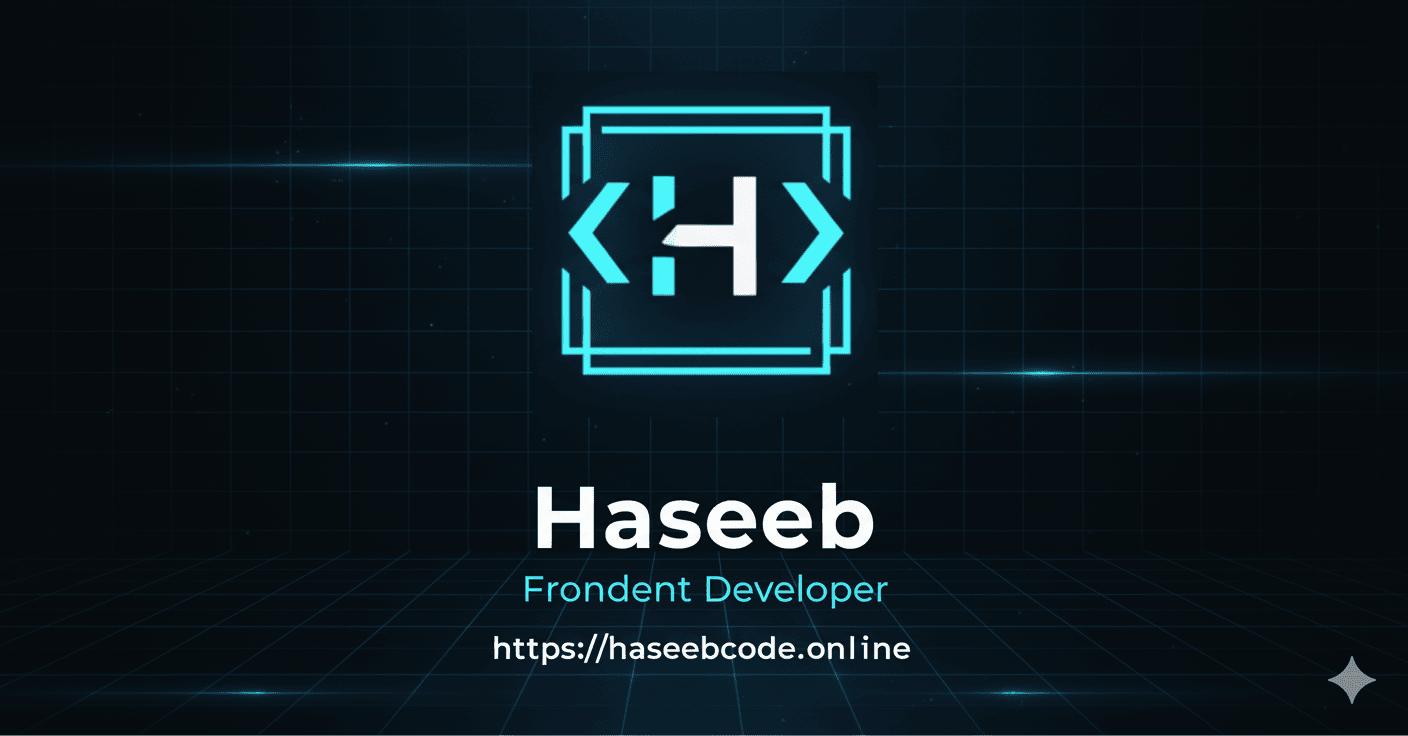
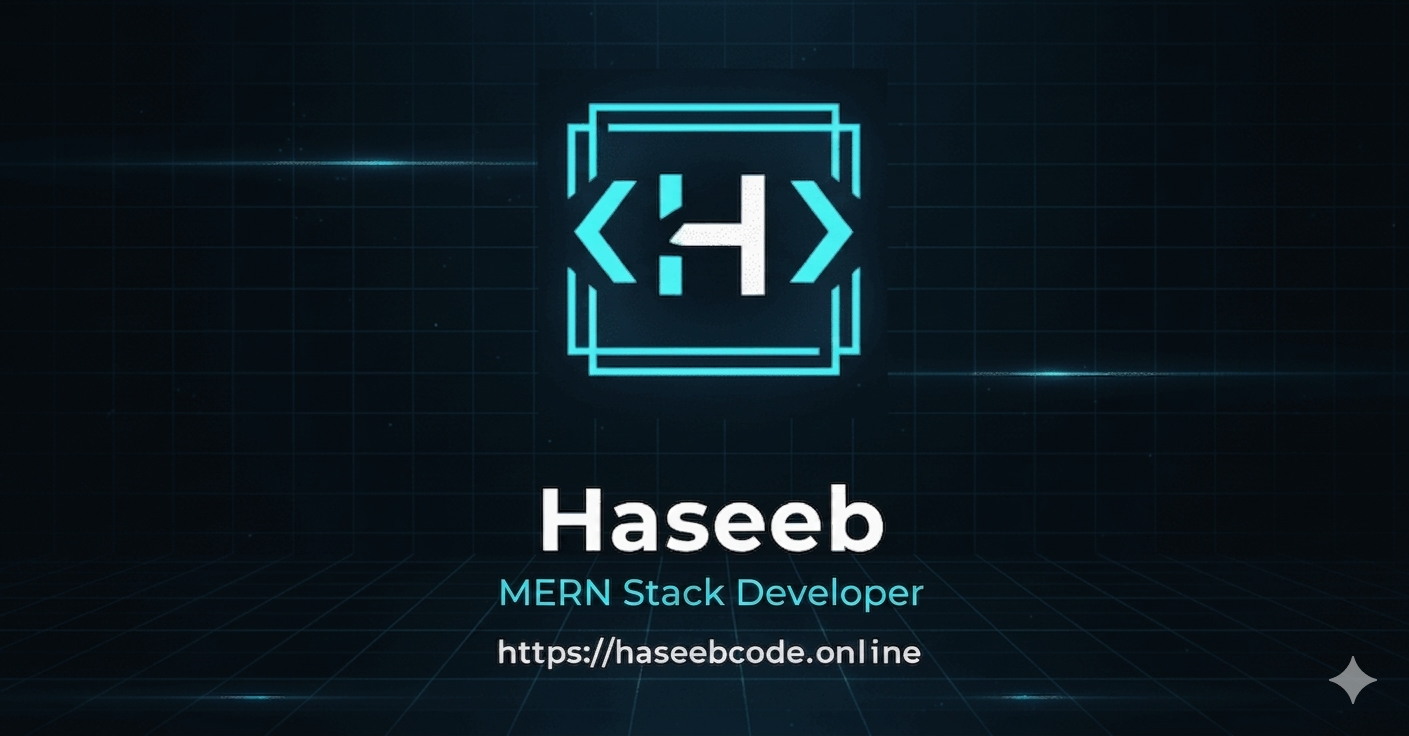
updated sharing thumbnail

diff --git a/index.html b/index.html
@@ -14,11 +14,11 @@
     />
     <meta property="og:image:type" content="image/webp" />
     <meta property="og:type" content="website" />
-    <meta
-      name="description"
-      content="I'm Muhammad Haseeb — a Frontend Developer and React.js enthusiast specializing in building responsive, dynamic, and user-friendly websites. Experienced in HTML, CSS, JavaScript, Bootstrap, and WordPress custom theme development, I create modern digital experiences that combine functionality with clean design."
-    />
-      <title>Muhammad Haseeb | Frontend Developer</title>
+ <meta
+  name="description"
+  content="Muhammad Haseeb is a MERN Stack Developer skilled in React.js, Node.js, Express.js, and MongoDB, building scalable full-stack applications with REST APIs, authentication, and modern UI/UX practices."
+/>
+      <title>Muhammad Haseeb | MERN Stack Developer</title>
       <!-- <script src="https://www.google.com/recaptcha/api.js" async defer></script> -->
 
     </head>
